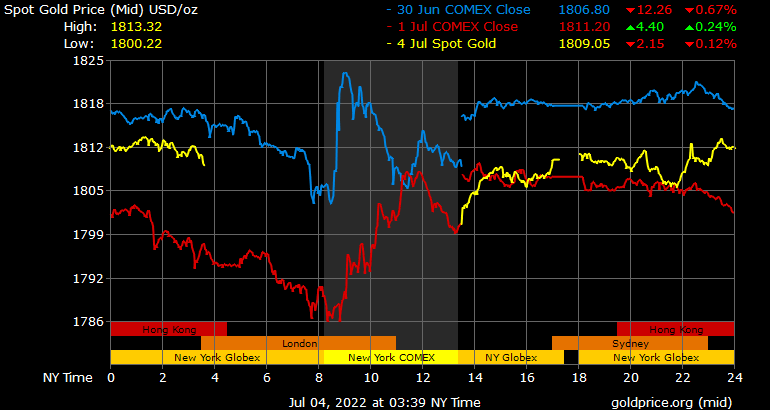
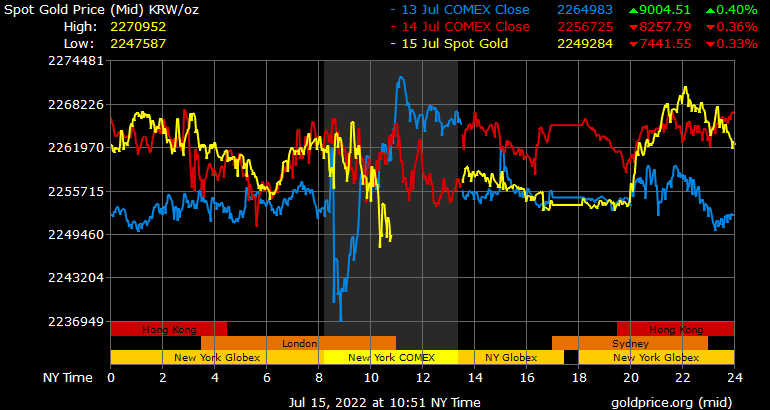
Enable setting preferred currency

diff --git a/gold-watcher/toolbar.go b/gold-watcher/toolbar.go
@@ -6,6 +6,7 @@ import (
 	"time"
 
 	"fyne.io/fyne/v2"
+	"fyne.io/fyne/v2/container"
 	"fyne.io/fyne/v2/dialog"
 	"fyne.io/fyne/v2/theme"
 	"fyne.io/fyne/v2/widget"
@@ -21,7 +22,11 @@ func (app *Config) getToolbar() *widget.Toolbar {
 		widget.NewToolbarAction(theme.ViewRefreshIcon(), func() {
 			app.refreshPriceContent()
 		}),
-		widget.NewToolbarAction(theme.SettingsIcon(), func() {}),
+		widget.NewToolbarAction(theme.SettingsIcon(), func() {
+			w := app.showPreferences()
+			w.Resize(fyne.NewSize(300, 200))
+			w.Show()
+		}),
 	)
 
 	return toolbar
@@ -105,4 +110,25 @@ func (app *Config) addHoldingsDialog() dialog.Dialog {
 	addForm.Show()
 
 	return addForm
+}
+
+func (app *Config) showPreferences() fyne.Window {
+	win := app.App.NewWindow("Preferences")
+
+	label := widget.NewLabel("Preferred Currency")
+	cur := widget.NewSelect([]string{"USD", "CAD", "KRW"}, func(value string) {
+		currency = value
+		app.App.Preferences().SetString("currency", value)
+	})
+	cur.Selected = currency
+
+	btn := widget.NewButton("Save", func() {
+		win.Close()
+		app.refreshPriceContent()
+	})
+	btn.Importance = widget.HighImportance
+
+	win.SetContent(container.NewVBox(label, cur, btn))
+
+	return win
 }

diff --git a/gold-watcher/main.go b/gold-watcher/main.go
@@ -60,6 +60,9 @@ func main() {
 	// create a database repository
 	myApp.setupDB(sqlDB)
 
+	// set currency to preference value mapped to key or fallback if not exists
+	currency = fyneApp.Preferences().StringWithFallback("currency", "USD")
+
 	// create and size the fyne window
 	myApp.MainWindow = fyneApp.NewWindow("Gold Watcher")
 	myApp.MainWindow.Resize(fyne.NewSize(770, 410))
